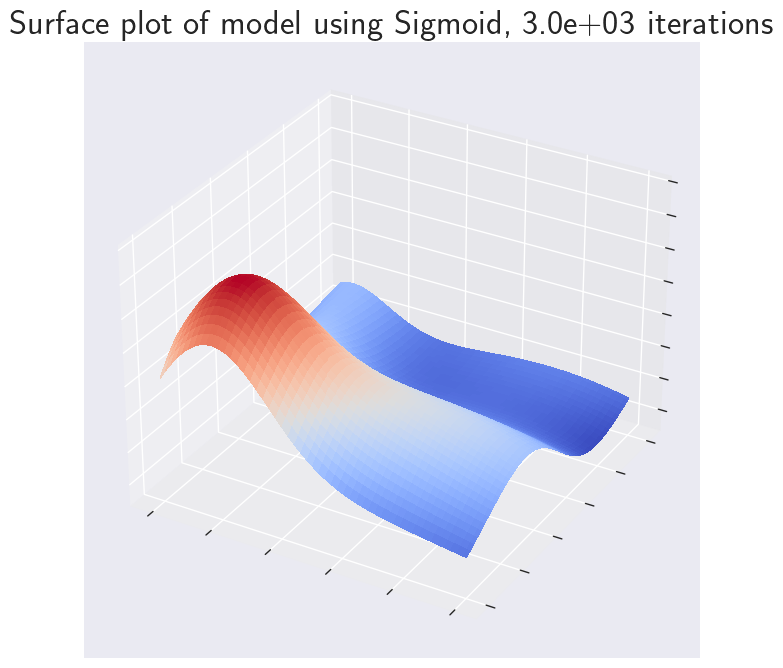
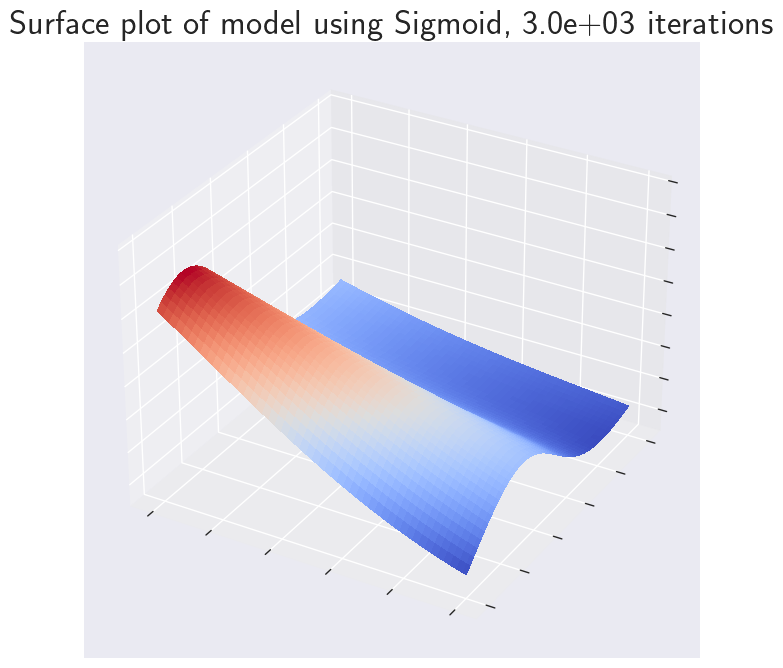
la til toleranse for regresjonstilfellet, dette vil ikke overføre for classification enda

diff --git a/Project2/Code/main_NN.py b/Project2/Code/main_NN.py
@@ -42,21 +42,24 @@ epochs = 3000
 eta = 5e-4
 lmbd_list = [5e-4] #[1e1, 1e0, 1e-1, 1e-2, 1e-3, 1e-4, 1e-5, 1e-6]
 gamma = 0.9
-tol = 0.011
+tol = 0.014
 batch_size_list = [500]
-t0, t1 = 0.1, 100 # Paramters used in learning rate.
+t0, t1 = 5e-4, 100 # Paramters used in learning rate.
 
 start = time.time()
 X_train, X_test, z_train, z_test = train_test_split(X, z, test_size=0.2, random_state=1)
+for lmbd in lmbd_list:
+    for batch_size in batch_size_list:
+        for n_layers in n_layers_list:
+            for n_hidden_neurons in n_hidden_neurons_list:
+                sigmoid_model = Sigmoid(t0, t1, lmbd, gamma, tol, n_layers, n_hidden_neurons, X_train, 'regression')
+                sigmoid_model.train(X_train, z_train, epochs, batch_size, learning_schedule=lambda t,t0,t1: t0)
+                time_sigmoid = time.time()
+                z_h, a_h, z_o_sigmoid, a_L = sigmoid_model.feed_forward(X_test)
+                MSE_sigmoid = np.mean((z_test - z_o_sigmoid)**2)
+                f.write(f'Sigmoid   |  {(time_sigmoid-start):.1f} | {MSE_sigmoid:.3f}|  {lmbd}  |     {eta}     |   {n_layers}    |        {n_hidden_neurons}         |   {epochs}   | \n')
 
-sigmoid_model = Sigmoid(t0, t1, lmbd, gamma, n_layers, n_hidden_neurons, X_train, 'regression')
-sigmoid_model.train(X_train, z_train, epochs, batch_size, learning_schedule=lambda t,t0,t1: t0)
-time_sigmoid = time.time()
-z_h, a_h, z_o_sigmoid, a_L = sigmoid_model.feed_forward(X_test)
-MSE_sigmoid = np.mean((z_test - z_o_sigmoid)**2)
-f.write(f'Sigmoid   |  {(time_sigmoid-start):.1f} | {MSE_sigmoid:.3f}|  {lmbd}  |     {eta}     |   {n_layers}    |        {n_hidden_neurons}         |   {epochs}   | \n')
-
-plot_surface(X, sigmoid_model, 'Sigmoid', epochs, n_layers, xx, yy, N)
+                plot_surface(X, sigmoid_model, 'Sigmoid', epochs, n_layers, xx, yy, N)
 # plot_surface(X, TANH_model, 'tanh', epochs, n_layers, xx, yy, N)
 f.close()
 quit()

diff --git a/Project2/Code/methods_NN.py b/Project2/Code/methods_NN.py
@@ -11,7 +11,7 @@ def der_crossEntropy(y, y_o, x):
     return val.reshape(-1,1)
 
 class NeuralNetwork:
-    def __init__(self, t0, t1, lmbd, gamma, n_layers, n_hidden_neurons, X_train, mode):
+    def __init__(self, t0, t1, lmbd, gamma, tol, n_layers, n_hidden_neurons, X_train, mode):
         self.t0, self.t1 = t0, t1
         self.lmbd = lmbd
         self.n_layers = n_layers
@@ -22,6 +22,8 @@ class NeuralNetwork:
         self.v = np.zeros(5, dtype=object)
         self.gamma = gamma
         self.mode = mode
+        self.tol = tol
+        self.MSE = 2*tol
         if mode == 'regression':
             self.der_cost_func = der_MSE
         elif mode == 'classification':
@@ -55,7 +57,7 @@ class NeuralNetwork:
 
 
 
-    def feed_forward(self, x, z):
+    def feed_forward(self, x):
         z_h = np.empty((self.n_layers, x.shape[0], self.n_hidden_neurons))
         a_h = np.empty((self.n_layers, x.shape[0], self.n_hidden_neurons))
 
@@ -75,7 +77,8 @@ class NeuralNetwork:
         return z_h, a_h, z_o, a_L
 
     def back_propagation(self, X, z, eta):
-        z_h, a_h, z_o, a_L = self.feed_forward(X, z)
+        z_h, a_h, z_o, a_L = self.feed_forward(X)
+        self.MSE = np.mean((z - a_L)**2)
         #Calculate weight and bias gradients for output layer
         output_error = self.der_cost_func(z, a_L, a_h[-1])
         w_o_gradient = a_h[-1].T @ output_error + self.lmbd*self.output_weights
@@ -133,6 +136,9 @@ class NeuralNetwork:
             rng.shuffle(indices)
             X_s = X[indices]
             z_s = z[indices]
+            if self.MSE < self.tol:
+                print(f'Tolerance of {self.tol} reached at epoch={epoch}')
+                break
             for i in range(0, N, batch_size):
                 eta = learning_schedule(epoch*(N/batch_size)+i, self.t0, self.t1)
                 self.back_propagation(X_s[i:i+batch_size], z_s[i:i+batch_size], eta)

diff --git a/Project2/Code/common.py b/Project2/Code/common.py
@@ -59,13 +59,7 @@ def scale(X):
 
 def learning_schedule(t, t0, t1):
     """Learning rate used in SGD"""
-<<<<<<< HEAD
-    return t0
-    # return t0/(t+t1)
-=======
     return t0/(t+t1)
 
 def accuracy(pred, target):
     return np.mean(abs(pred - target) < 0.5)
-
->>>>>>> 633d5ee88aa4581b656b61c258589451018d305a
